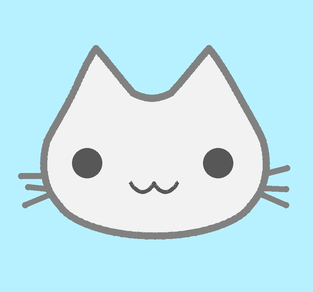
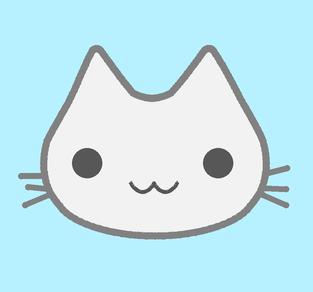
Round off the ear tips
The tips were sharp corners softened only by the stroke's round join, which
left them visibly more pointed than the reference. Trim both curves back by a
radius and bridge them with a cubic approximating a circular arc.

Rounding a tip also lowers it, which cost the drawing six pixels of height, so
EAR_LIFT raises the tips by half the radius to pay for what the fillet removes.
Both are single constants; the authored control points stay as measured.

Changed region(s): [[0.5751, 0.1541, 0.7476, 0.3082], [0.23, 0.1541, 0.3738, 0.2774], [0.3738, 0.2466, 0.4026, 0.2774]]

diff --git a/cat-illustration/cat_illustration.py b/cat-illustration/cat_illustration.py
@@ -36,6 +36,10 @@ EYE_R_POS = (218.0, 163.0)
 # cubic segment: two control points and an end point. The ears are part of the
 # contour rather than shapes stuck on top, and every corner is a curve, so the
 # silhouette reads as drawn by hand rather than assembled from polygons.
+EAR_FILLET = 8.0   # radius of the rounded ear tips; 0 leaves them sharp
+EAR_LIFT = 4.0     # raises the tips to give the fillet something to cut away,
+                   # so rounding them does not shorten the whole drawing
+
 HEAD_START = (96.0, 48.5)
 HEAD_CURVES = [
     ((108, 62), (120, 78), (133, 93)),       # left ear, inner edge down
@@ -71,6 +75,115 @@ MOUTH_CURVES = [
 ]
 
 
+# --- fillet --------------------------------------------------------------
+# The ear tips are authored as sharp corners above, then rounded here, so the
+# radius stays one number instead of being baked into hand-tuned control
+# points. Each corner is trimmed back along both curves by the radius and the
+# gap bridged with a cubic that approximates a circular arc.
+
+def _split(seg, t):
+    """de Casteljau: cut one cubic into two at parameter t."""
+    p0, c1, c2, p1 = seg
+    def lerp(a, b):
+        return (a[0] + (b[0] - a[0]) * t, a[1] + (b[1] - a[1]) * t)
+    a, b, c = lerp(p0, c1), lerp(c1, c2), lerp(c2, p1)
+    d, e = lerp(a, b), lerp(b, c)
+    f = lerp(d, e)
+    return (p0, a, d, f), (f, e, c, p1)
+
+
+def _arc_len_ts(seg, n=200):
+    """Cumulative chord length along a cubic, sampled evenly in t."""
+    p0, c1, c2, p1 = seg
+    pts = _bezier(p0, c1, c2, p1, n)
+    acc, total = [0.0], 0.0
+    for i in range(1, len(pts)):
+        total += math.dist(pts[i - 1], pts[i])
+        acc.append(total)
+    return acc, total
+
+
+def _t_at_dist(seg, dist, from_end):
+    """Parameter t sitting ``dist`` of arc length from one end of ``seg``."""
+    acc, total = _arc_len_ts(seg)
+    if total <= dist * 1.2:          # segment too short to give up that much
+        dist = total * 0.45
+    target = total - dist if from_end else dist
+    n = len(acc) - 1
+    for i in range(1, len(acc)):
+        if acc[i] >= target:
+            span = acc[i] - acc[i - 1] or 1.0
+            return (i - 1 + (target - acc[i - 1]) / span) / n
+    return 1.0
+
+
+def _unit(v):
+    m = math.hypot(*v) or 1.0
+    return (v[0] / m, v[1] / m)
+
+
+def _arc_blend(a, b):
+    """A cubic joining the two trimmed ends, curving like a circular arc."""
+    q1, q2 = a[3], b[0]
+    da = _unit((q1[0] - a[2][0], q1[1] - a[2][1]))    # tangent leaving a
+    db = _unit((b[1][0] - q2[0], b[1][1] - q2[1]))    # tangent entering b
+
+    # where the two tangent lines meet: the apex the arc is rounding off
+    den = da[0] * db[1] - da[1] * db[0]
+    if abs(den) < 1e-9:
+        k, apex = 1 / 3, ((q1[0] + q2[0]) / 2, (q1[1] + q2[1]) / 2)
+    else:
+        s = ((q2[0] - q1[0]) * db[1] - (q2[1] - q1[1]) * db[0]) / den
+        apex = (q1[0] + da[0] * s, q1[1] + da[1] * s)
+        turn = abs(math.atan2(den, da[0] * db[0] + da[1] * db[1]))
+        k = (4 / 3) * math.tan(turn / 4) / math.tan(turn / 2) if turn > 1e-6 else 2 / 3
+    c1 = (q1[0] + (apex[0] - q1[0]) * k, q1[1] + (apex[1] - q1[1]) * k)
+    c2 = (q2[0] + (apex[0] - q2[0]) * k, q2[1] + (apex[1] - q2[1]) * k)
+    return (q1, c1, c2, q2)
+
+
+def _fillet(segs, i, r):
+    """Round the corner where segs[i] meets segs[i + 1]."""
+    a, b = segs[i], segs[i + 1]
+    a2 = _split(a, _t_at_dist(a, r, from_end=True))[0]
+    b2 = _split(b, _t_at_dist(b, r, from_end=False))[1]
+    return segs[:i] + [a2, _arc_blend(a2, b2), b2] + segs[i + 2:]
+
+
+def _lifted():
+    """Head control points with the ear tips raised by ``EAR_LIFT``.
+
+    The authored numbers stay exactly as measured off the reference; the lift
+    is applied here because it exists only to pay for what the fillet removes.
+    Neighbouring controls move half as far, which keeps the flank angles.
+    """
+    start = list(HEAD_START)
+    curves = [[list(c1), list(c2), list(end)] for c1, c2, end in HEAD_CURVES]
+    if EAR_LIFT:
+        start[1] -= EAR_LIFT
+        curves[10][2][1] -= EAR_LIFT          # left tip, same point as start
+        curves[2][2][1] -= EAR_LIFT           # right tip
+        for seg, idx in ((10, 1), (0, 0), (2, 1), (3, 0)):
+            curves[seg][idx][1] -= EAR_LIFT * 0.5
+    return tuple(start), [tuple(tuple(p) for p in c) for c in curves]
+
+
+def head_segments():
+    """The head as cubic segments, with the two ear tips rounded."""
+    start, curves = _lifted()
+    segs, cur = [], start
+    for c1, c2, end in curves:
+        segs.append((cur, c1, c2, end))
+        cur = end
+    if EAR_FILLET > 0:
+        # The left tip sits on the seam where the closed path joins itself, so
+        # rotate by one segment first and both tips become ordinary corners.
+        segs = segs[1:] + segs[:1]
+        segs = _fillet(segs, 9, EAR_FILLET)    # left tip
+        segs = _fillet(segs, 1, EAR_FILLET)    # right tip
+    return segs
+
+
 def _fmt(v):
     return f"{v:g}"
 
@@ -87,7 +200,9 @@ def _path_d(start, curves, close=False):
 
 def createCatHead():
     """The head silhouette: one continuous path, filled and stroked."""
-    return (f'  <path d="{_path_d(HEAD_START, HEAD_CURVES, close=True)}"\n'
+    segs = head_segments()
+    d = _path_d(segs[0][0], [(s[1], s[2], s[3]) for s in segs], close=True)
+    return (f'  <path d="{d}"\n'
             f'        fill="{FILL}" stroke="{OUTLINE}" stroke-width="{_fmt(OUTLINE_W)}"\n'
             f'        stroke-linecap="round" stroke-linejoin="round"/>')
 
@@ -141,10 +256,9 @@ def _bezier(p0, c1, c2, p1, n=60):
 
 
 def _outline_points():
-    pts, cur = [], HEAD_START
-    for c1, c2, end in HEAD_CURVES:
-        pts.extend(_bezier(cur, c1, c2, end)[:-1])
-        cur = end
+    pts = []
+    for p0, c1, c2, p1 in head_segments():
+        pts.extend(_bezier(p0, c1, c2, p1)[:-1])
     return pts
 
 

diff --git a/cat-illustration/README.md b/cat-illustration/README.md
@@ -23,10 +23,16 @@ same numbers, so the thing being measured is always the thing being shipped.
 
 ## Components
 
-`createCatHead()` emits the silhouette as **one** closed path: eleven cubic
-segments walked clockwise from the left ear tip. The ears are part of the
-contour rather than shapes placed on top, and every junction is a curve, so the
-outline reads as drawn rather than assembled.
+`createCatHead()` emits the silhouette as **one** closed path of thirteen cubic
+segments. The ears are part of the contour rather than shapes placed on top, and
+every junction is a curve, so the outline reads as drawn rather than assembled.
+
+The ear tips are authored as sharp corners and rounded afterwards by `_fillet()`,
+which trims both curves back by `EAR_FILLET` and bridges the gap with a cubic
+approximating a circular arc. Rounding a tip also shortens it, so `EAR_LIFT`
+raises the tips by half the radius to pay for what the fillet removes — without
+it the whole drawing loses six pixels of height. Both are single constants; set
+`EAR_FILLET = 0` for sharp tips.
 
 `createEyes()`, `createMouth()` and `createWhiskers()` emit the features.
 Whiskers are drawn before the head so they tuck under its outline.
@@ -51,7 +57,7 @@ Taken from the reference image itself, not from description:
 | top of drawing | 45 | 45 | 0 |
 | bottom | 239 | 239 | 0 |
 | valley between ears | 94 | 94 | 0 |
-| ear tips | 96.0, 209.5 | 95.5, 208.5 | <1 |
+| ear tips | 96.0, 209.5 | 96.0, 208.5 | <1 |
 | width at y=140 | 222 | 224 | +2 |
 | width at y=150 | 226 | 228 | +2 |
 | width at y=215 | 187 | 184 | −3 |
@@ -62,5 +68,5 @@ Taken from the reference image itself, not from description:
 | mouth centre | 152.5, 186.5 | 153.5, 187.0 | ≤1 |
 | mouth size | 48 × 12 | 50 × 13 | ≤2 |
 
-Silhouette overlap with the reference is **93%** by intersection over union.
+Silhouette overlap with the reference is **93.5%** by intersection over union.
 Every figure is within 3px on a 313px canvas.
